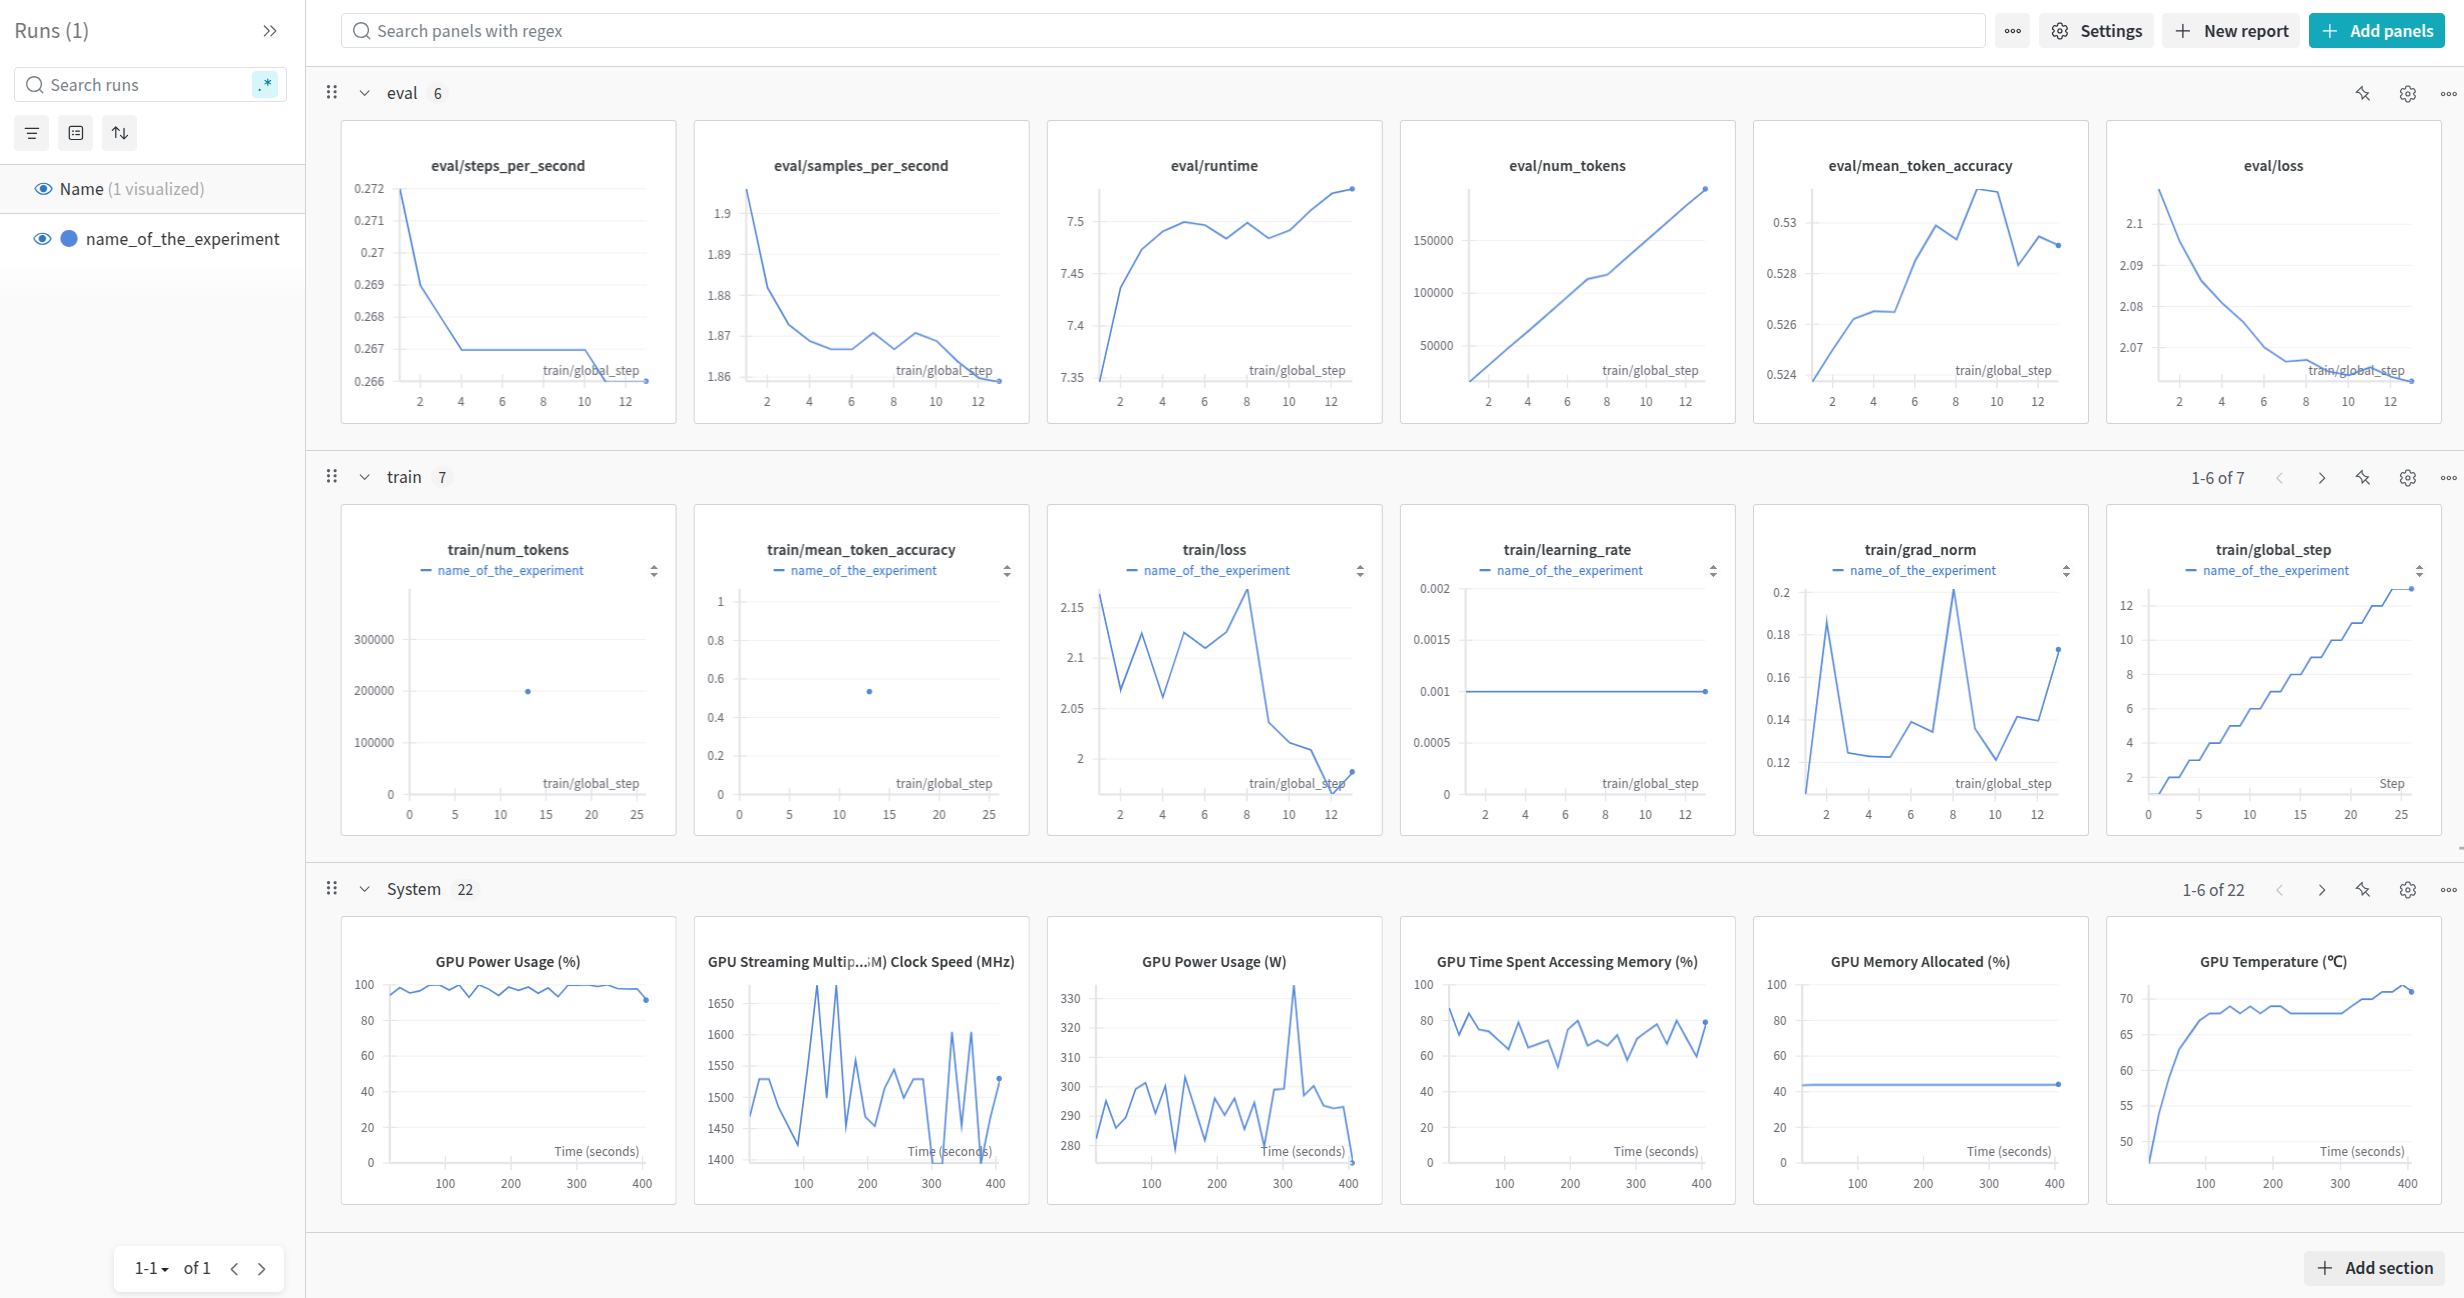
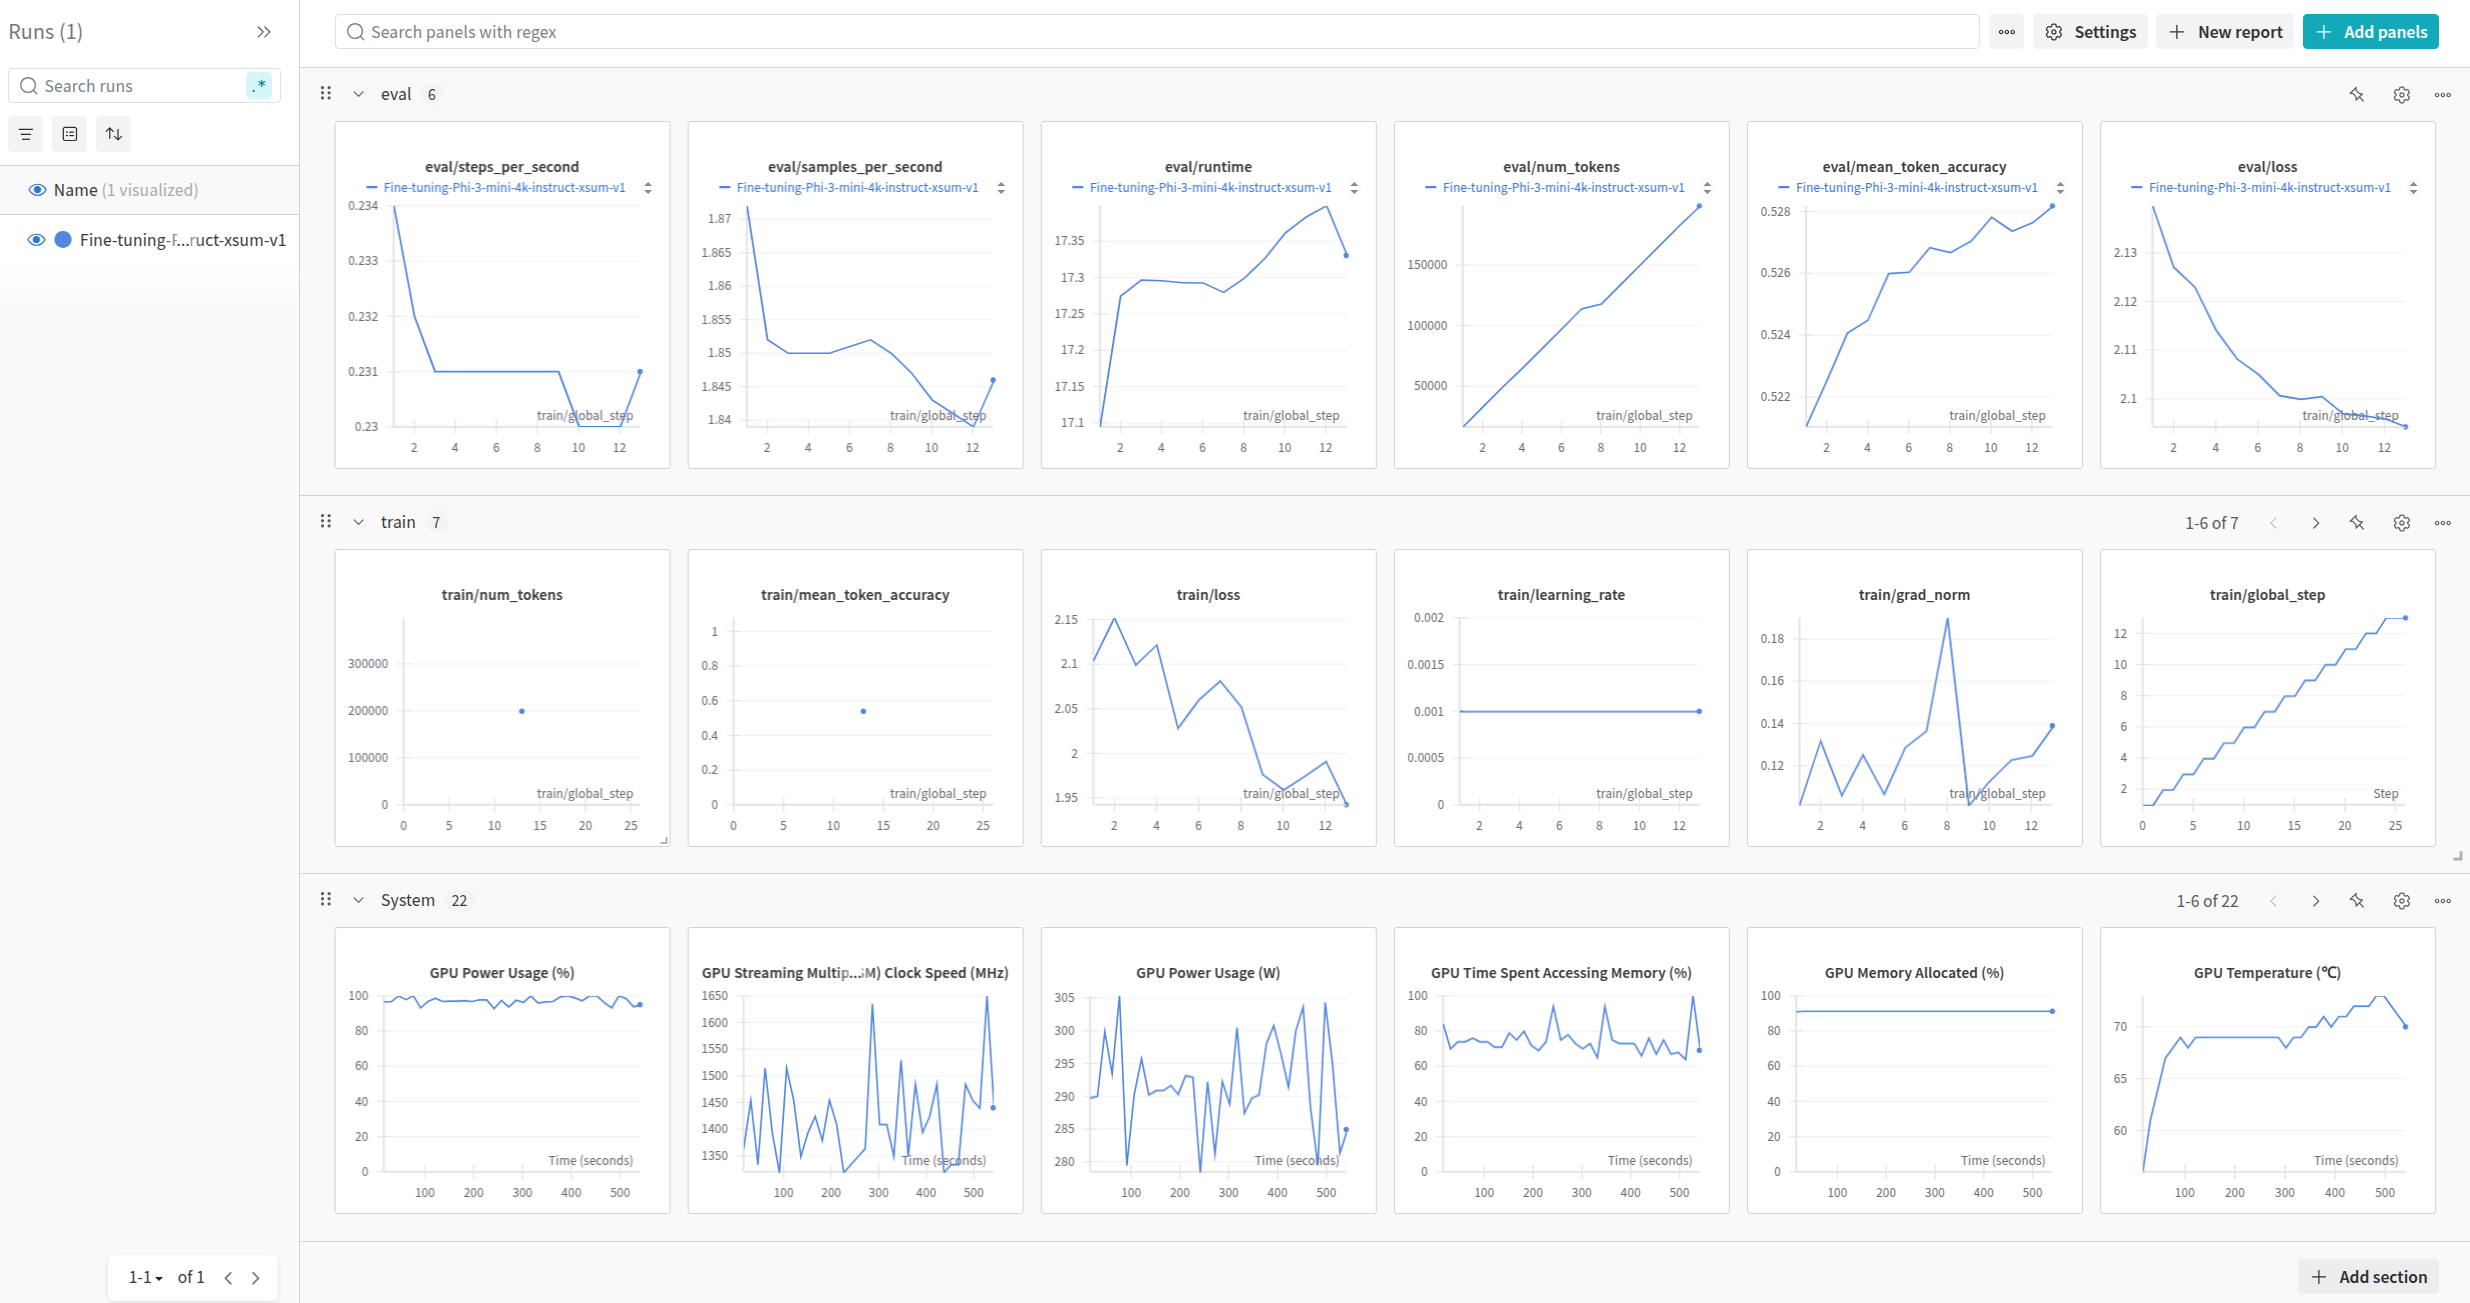
docs: readme refinement

diff --git a/content/experiment-tracking/README.md b/content/experiment-tracking/README.md
@@ -12,7 +12,14 @@ Ensure you have a Weights & Biases account. You can sign up at the [Weight&Biase
 
 ### Prerequisities
 
-To get started, install the necessary libraries. If you've just created your environment, use the following command:
+To begin, update your system and install the Python development headers:
+
+```bash
+sudo apt-get update
+sudo apt-get install python3-dev -y
+```
+
+Next, install the necessary Python libraries. If you've just created your environment, use the following command:
 
 ```bash
 pip install bitsandbytes==0.45.4 datasets==3.5.0 peft==0.15.1 transformers==4.50.2 trl==0.16.0 wandb==0.19.8
@@ -29,7 +36,7 @@ import wandb
 
 from datasets import load_dataset, Dataset
 from peft import get_peft_model, LoraConfig, prepare_model_for_kbit_training
-from transformers import AutoModelForCausalLM, AutoTokenizer, BitsAndBytesConfig
+from transformers import AutoModelForCausalLM, AutoTokenizer, BitsAndBytesConfig, EarlyStoppingCallback
 from transformers.integrations import WandbCallback
 from trl import SFTConfig, SFTTrainer
 ```
@@ -108,12 +115,13 @@ tokenizer = AutoTokenizer.from_pretrained(repo_id)
 
 ### Environment Variables
 
-Set the required environment variables to access W&B and save model artifacts:
+Set the necessary environment variables to access Weights & Biases and save model artifacts. Follow the instructions [here](https://docs.wandb.ai/support/find_api_key/) to find your API key. For a complete list of environment variables, refer to the [documentation](https://docs.wandb.ai/guides/track/environment-variables/):
 
 ```bash
 WANDB_API_KEY=
 WANDB_LOG_MODEL=checkpoint
 ```
+
 ### Logging in
 
 Log in to W&B:
@@ -132,20 +140,24 @@ Set up your training parameters using `SFTConfig` and configure logging to W&B. 
 args = SFTConfig(
     num_train_epochs=10,
     per_device_train_batch_size=16,
-    learning_rate=3e-3,
+    learning_rate=1e-3,
     optim='adagrad',
+
     gradient_checkpointing=True,
     gradient_checkpointing_kwargs={'use_reentrant': False}, 
     gradient_accumulation_steps=1,  
-    lr_scheduler_type='constant'
+
+    lr_scheduler_type='constant',
     packing=True,
     metric_for_best_model="eval_loss",
-    output_dir="experiment_1",
+    output_dir="Fine-tuning-Phi-3-mini-4k-instruct-xsum-v1",
+
     logging_strategy="steps",
     logging_steps=1,
     eval_strategy="steps",
     eval_steps=1, 
-    report_to="wandb",
+
+    report_to="wandb"  # Ensure this is set
 )
 ```
 
@@ -155,8 +167,8 @@ Initialize your W&B run:
 
 ```python
 wandb.init(
-    project="Fine-tuning LLMs",
-    name="Phi-3-mini-4k-instruct-xsum-v1",
+    project="Summarization-of-articles",
+    name="Fine-tuning-Phi-3-mini-4k-instruct-xsum-v1",
     tags=["baseline", "Phi-3", "xsum"],
 )
 ```
@@ -188,33 +200,6 @@ Remember to finish your W&B run if you're using a notebook:
 wandb.finish()
 ```
 
-## Logging Custom Metrics
-
-To log custom metrics, subclass `WandbCallback` and use methods like `on_train_end` to log metrics with `wandb.log()`. You can check out all of the methods in the [Huggingface docs](https://huggingface.co/docs/transformers/v4.50.0/en/main_classes/callback#transformers.TrainerCallback).
-
-```python
-class WandbCustomMetricCallback(WandbCallback):
-    def on_train_end(self, args, state, control, **kwargs):
-        super().on_train_end(args, state, control, **kwargs)
-
-        ...  # calculate metric
-
-        wandb.log({"metric_name": metric_value})
-```
-
-Organize metrics into categories by prefixing names:
-
-```python
-wandb.log({"train/metric": metric_value})
-wandb.log({"eval/metric": metric_value})
-```
-
-You can also create new categories:
-
-```python
-wandb.log({"new_category/metric": metric_value})
-```
-
 ## Visualizing Results
 
 After training, check your run on the W&B dashboard under your project:
@@ -230,6 +215,40 @@ You can still see only one run by clicking the run name in the project dashboard
 For detailed information about all of the runs, expand the Runs panel (shortcut: Ctrl+J):
 
 ![table with all logged information](./images/few-experiments-table.png)
+
+
+## Logging Custom Metrics
+
+By default, Weights & Biases automatically logs a variety of metrics related to training, evaluation, and system performance. These include metrics like mean token accuracy, training and test losses, GPU power usage, and GPU temperature, among others. However, you can also log your own metrics. To do this, subclass `WandbCallback` and use methods like `on_train_end` to log metrics with `wandb.log()`. You can check out all of the methods in the [Huggingface docs](https://huggingface.co/docs/transformers/v4.50.0/en/main_classes/callback#transformers.TrainerCallback).
+
+```python
+# trainer = SFTTrainer( ... )
+
+class WandbCustomMetricCallback(WandbCallback):
+    def on_train_end(self, args, state, control, **kwargs):
+        super().on_train_end(args, state, control, **kwargs)
+
+        ...  # calculate metric
+
+        wandb.log({"metric_name": metric_value})
+
+trainer.add_callback(WandbCustomMetricCallback())
+
+# trainer.train()
+```
+
+Organize metrics into categories by prefixing names:
+
+```python
+wandb.log({"train/metric": metric_value})
+wandb.log({"eval/metric": metric_value})
+```
+
+You can also create new categories:
+
+```python
+wandb.log({"new_category/metric": metric_value})
+```
 
 ## Downloading and Using a Model Artifact
 
@@ -247,3 +266,7 @@ model = AutoModelForCausalLM.from_pretrained(
     quantization_config=bnb_config
 )
 ```
+
+# Conclusion
+
+In this guide, we explored the fundamentals of using Weights & Biases for experiment tracking. For more in-depth information and additional features, be sure to visit the [Weights & Biases documentation](https://docs.wandb.ai/quickstart/).
